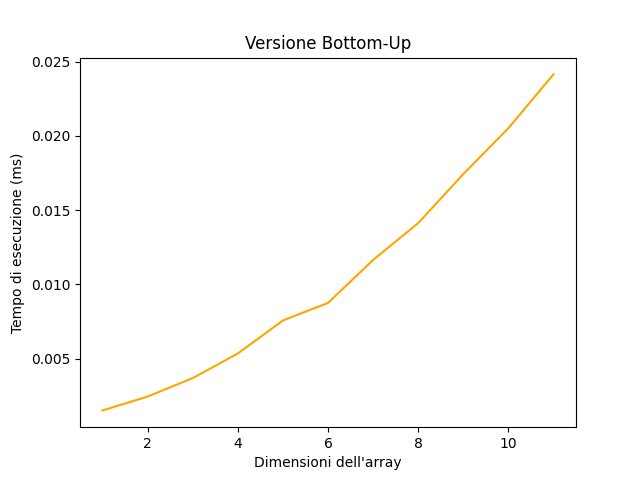
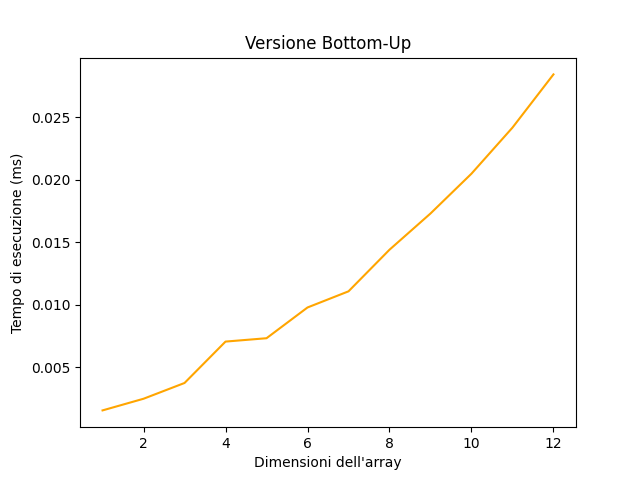
commit

diff --git a/FrancescaSani_Es1/main.py b/FrancescaSani_Es1/main.py
@@ -7,7 +7,7 @@ import numpy as np
 
 nrIterazioniTest = 100
 
-maxLength = 12 # Dimensione massima delle sequenze generate
+maxLength = 13 # Dimensione massima delle sequenze generate
 
 # Array per salvare i tempi e le dimensioni delle sequenze generate
 BruteForce = []
@@ -115,7 +115,7 @@ def lcs_bottomUp(s1, s2):
     return lenght
 
 # Funzione per generare sequenze
-def random_string_generator(length):
+def stringGenerator(length):
     sequence = ""
     for x in range(length):
         sequence = ("".join(random.choice(string.ascii_uppercase)for _ in range(length)))
@@ -144,8 +144,8 @@ def drawPlots():
 
 # Funzione per generare la tabella
 def drawTable(columns: list, headers: tuple, title: str):
-    fig, ax = plt.subplots(figsize=(6, 8))
-    plt.title(title)
+    fig, ax = plt.subplots(figsize=(10, 6))
+    #plt.title(title)
 
     data = np.stack(tuple(columns), axis=1)
 
@@ -167,10 +167,10 @@ def drawTable(columns: list, headers: tuple, title: str):
 def test():
     # Misurazione dei tempi di esecuzione
     for i in range(1, maxLength):
-        s1 = random_string_generator(i)
-        s2 = random_string_generator(i)
-        print("\n")
+        s1 = stringGenerator(i)
+        s2 = stringGenerator(i)
         print("Sequenze generate: ", s1, "  ", s2)
+        print("\n")
 
         length.append(i)
 
